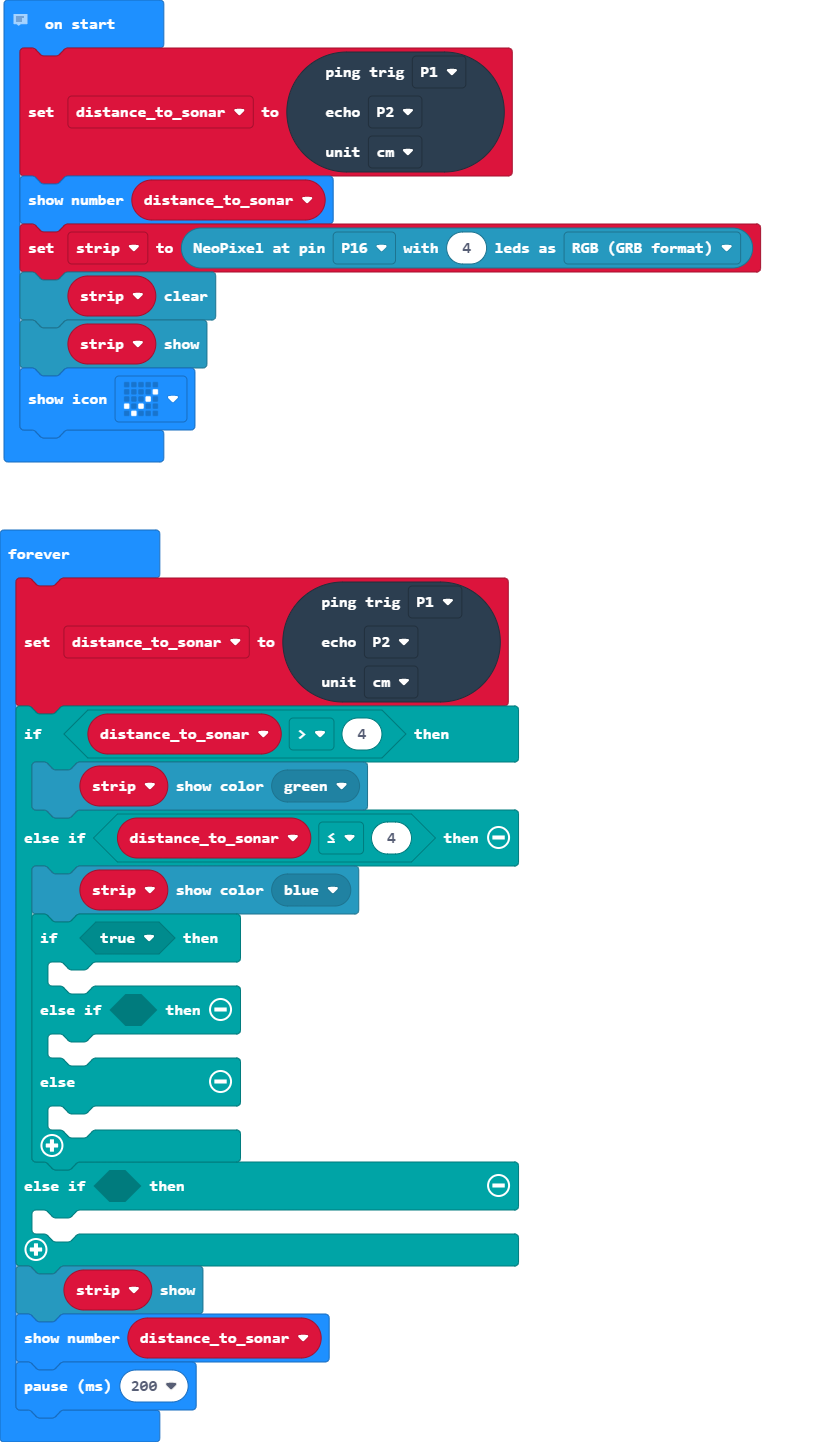
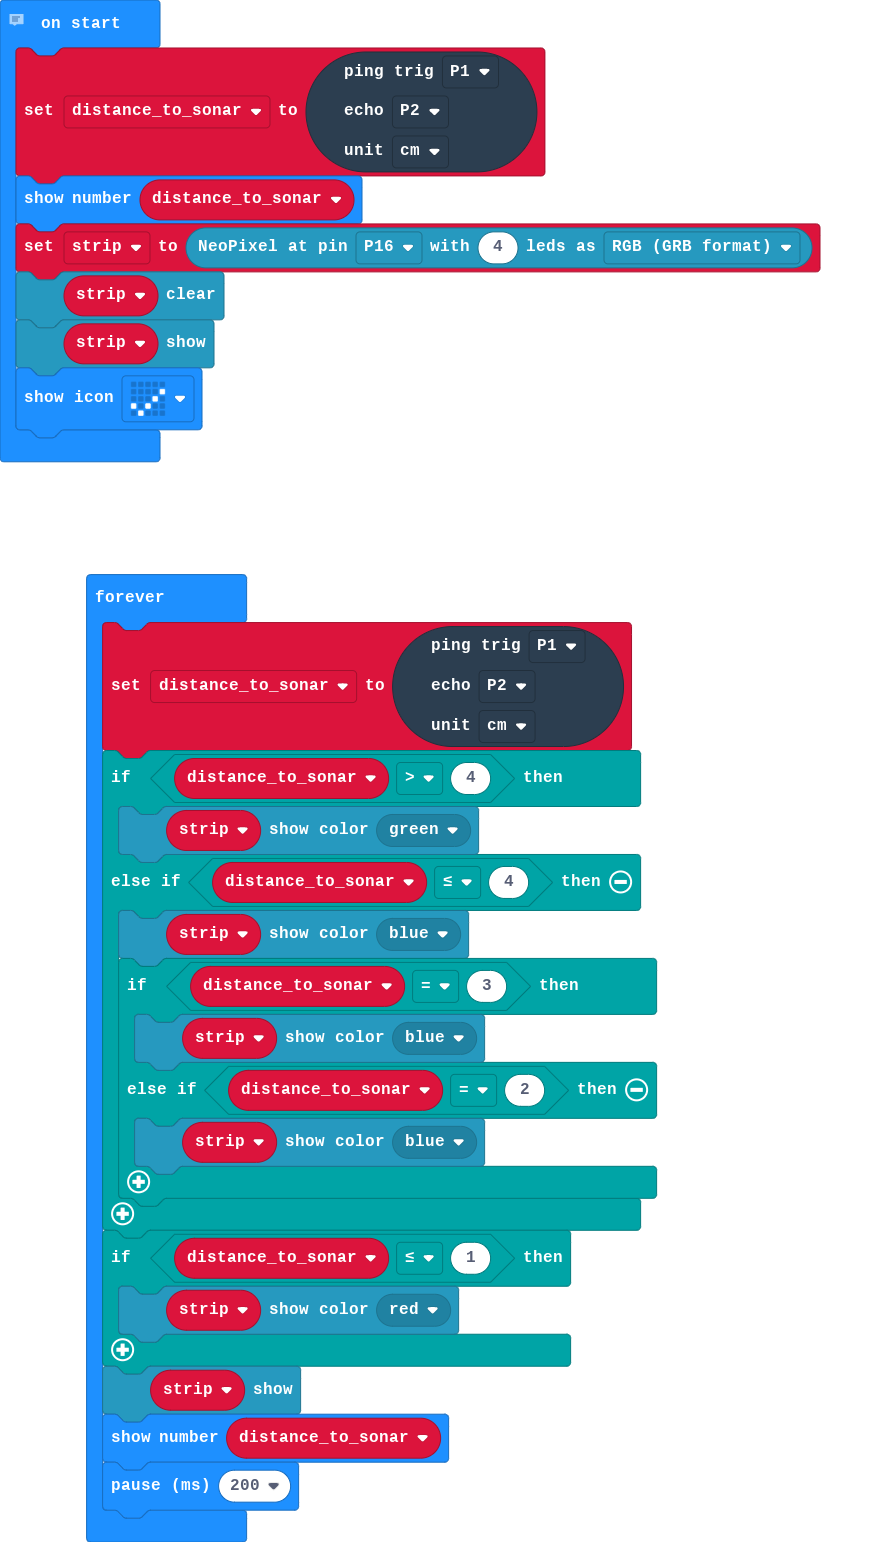
add  program

diff --git a/main.ts b/main.ts
@@ -22,15 +22,14 @@ basic.forever(function () {
         strip.showColor(neopixel.colors(NeoPixelColors.Green))
     } else if (distance_to_sonar <= 4) {
         strip.showColor(neopixel.colors(NeoPixelColors.Blue))
-        if (true) {
-        	
-        } else if (false) {
-        	
-        } else {
-        	
+        if (distance_to_sonar == 3) {
+            strip.showColor(neopixel.colors(NeoPixelColors.Blue))
+        } else if (distance_to_sonar == 2) {
+            strip.showColor(neopixel.colors(NeoPixelColors.Blue))
         }
-    } else if (false) {
-    	
+    }
+    if (distance_to_sonar <= 1) {
+        strip.showColor(neopixel.colors(NeoPixelColors.Red))
     }
     strip.show()
     basic.showNumber(distance_to_sonar)
